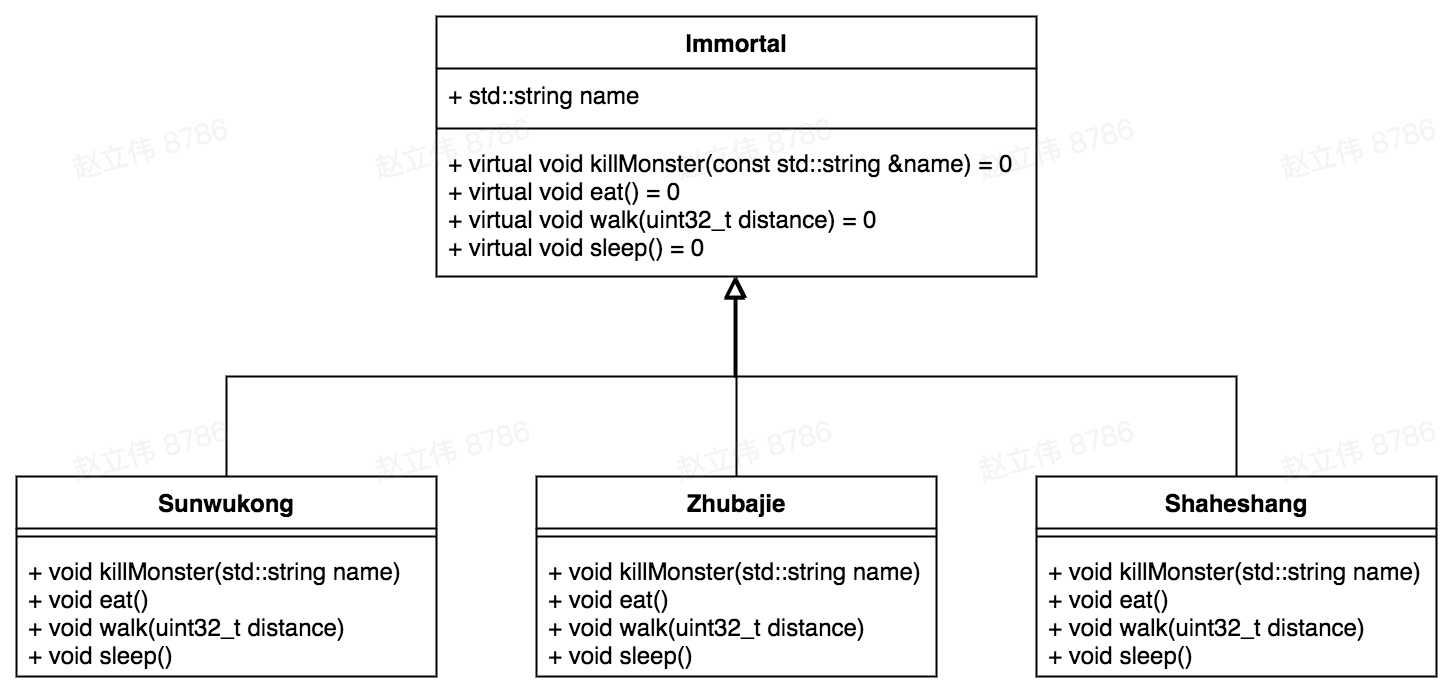
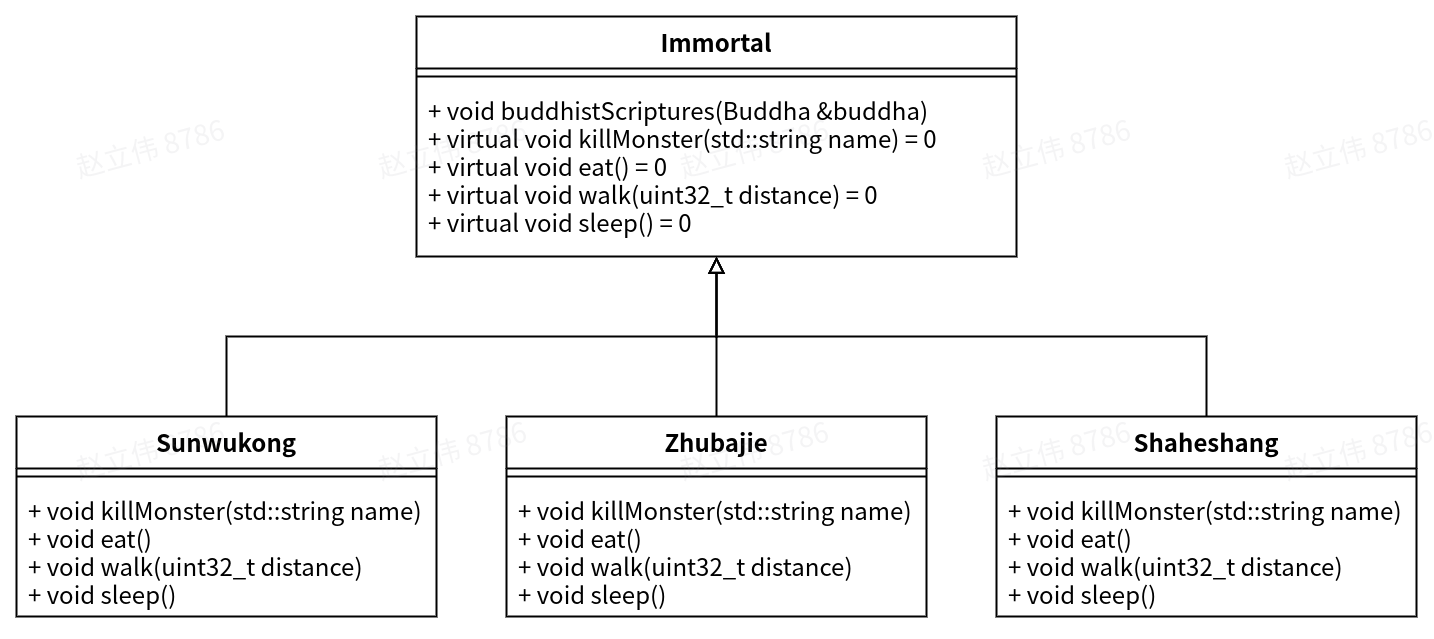
update

Changed region(s): [[0.0, 0.0, 1.0, 0.9812]]

diff --git a/_posts/2022-01-04-code-refactor.md b/_posts/2022-01-04-code-refactor.md
@@ -1835,7 +1835,7 @@ private:
 
 Visitor模式是一个相对比较难理解的设计模式，本人阅读了很多讲解Visitor的文章，很多都将重点聚焦在将数据数据持有者和数据访问者分离，这会令很多人很疑惑：为什么要把本来在元素内部实现的、关于元素自身行为的逻辑抽取到访问者上。下面我们来逐层分析，以理解Visitor模式的核心思想。
 
-还是以西天取经为例，最开始取经队伍中只有唐僧和几个其他和尚，这几块货也就是会念念经，所以如来佛祖也没指望他们取经路上干点啥，也就是念经、睡觉、吃饭、赶路。需要说明的是，这里假设唐僧念经和普通和尚不一样，要做一些特殊的操作，因此需要将唐僧实现为一个独立的类。其简单类图如下：
+还是以西天取经为例，最开始取经队伍中只有唐僧和几个其他和尚，这几块货也就是会念念经，所以如来佛祖也没指望他们取经路上干点啥，也就是念念经。需要说明的是，这里假设唐僧念经和普通和尚不一样，要做一些特殊的操作，因此需要将唐僧实现为一个独立的类。其简单类图如下：
 
 ![](../images/visitor-graph-1.jpg)
 
@@ -1847,6 +1847,14 @@ public:
     Monk(const std::string &name) : name(name) {}
     virtual ~Monk() = 0;
 
+    void buddhistScriptures(Buddha &buddha) {
+        this->eat();
+        this->walk(100);
+        buddha.visit(this);
+        this->sleep();
+    }
+
+private:
     virtual void chant(uint32_t hour) = 0;
     virtual void eat() = 0;
     virtual void sleep() = 0;
@@ -1854,6 +1862,8 @@ public:
 
 protected:
     std::string name;
+
+    friend class Buddha;
 };
 
 Monk::~Monk() = default;
@@ -1862,6 +1872,7 @@ class Tangseng : public Monk {
 public:
     Tangseng() : Monk("唐僧") {}
 
+private:
     void chant(uint32_t hour) {
         // TBD: do some special action
         std::cout << this->name << "念经" << hour << "小时" << std::endl;
@@ -1884,6 +1895,7 @@ class CommonMonk : public Monk {
 public:
     CommonMonk(const std::string &name) : Monk(name) {}
 
+private:
     void chant(uint32_t hour) {
         // TBD: do some special action
         std::cout << this->name << "念经" << hour << "小时" << std::endl;
@@ -1906,11 +1918,8 @@ class Buddha {
 public:
     Buddha() = default;
 
-    void buddhistScriptures(Monk* monk) {
-        monk->eat();
-        monk->walk(100);
+    void visit(Monk* monk) {
         monk->chant(2);
-        monk->sleep();
     }
 };
 ```
@@ -1926,7 +1935,7 @@ int main() {
 
     Buddha buddha;
     for (const auto &monk : monks) {
-        buddha.buddhistScriptures(monk.get());
+        monk->buddhistScriptures(buddha);
     }
 }
 ```
@@ -1950,11 +1959,11 @@ int main() {
 
 ***这里使用了一次动态分派（即多态）***。
 
-后来随着剧情推进，孙悟空、猪八戒和沙僧加入了队伍。然而他们的主要职责并不是念经，而是降妖除魔。如下所示：
+后来随着剧情推进，孙悟空、猪八戒和沙僧加入了队伍。然而如来佛祖希望他们取经路上的职责是降妖除魔，而不是念经。如下所示：
 
 ![](../images/visitor-graph-2.jpg)
 
-因此，通过上面的一次动态分派就很难解决问题了。这里有两种解决办法：
+由于不同的角色需要执行不同的操作，因此通过上面的一次动态分派就很难解决问题了。这里有两种解决办法：
 
 - 将killMonster和chant函数抽象成action，如下所示：
 
@@ -1975,15 +1984,9 @@ public:
 
     void buddhistScriptures(Person* person) {
         if (person->type() == "Monk") {
-            person->eat();
-            person->walk(100);
             person->chant(2);
-            person->sleep();
         } else if (person->type() == "Immortal") {
-            person->eat();
-            person->walk(100);
             person->killMonster("白骨精");
-            person->sleep();
         }
     }
 };
@@ -1999,24 +2002,20 @@ public:
     Buddha() = default;
 
     void buddhistScriptures(Monk* monk) {
-        monk->eat();
-        monk->walk(100);
         monk->chant(2);
-        monk->sleep();
     }
 
     void buddhistScriptures(Immortal* immortal) {
-        immortal->eat();
-        immortal->walk(100);
         immortal->killMonster("白骨精");
-        immortal->sleep();
     }
 };
 ```
 
 这里***通过函数重载引入了一次静态分派***，当调用buddhistScriptures函数时，会根据具体是Monk类型还是Immortal类型，来调用不同的重载函数。
 
-不过，这里还有一个问题：如来佛祖希望取经团队按照如上实现去做，而取经路上的女儿国国王却非如此，她希望唐僧留下来不要去取经了，也别当和尚念经了，直接留女儿国当国王。而孙悟空几个徒弟去代替唐僧取经。因此，***这里需要引入一次动态分派（多态）***，以抽象如来佛祖和女儿国国王，具体的实现方式是实现一个如来佛祖和女儿国国王的公共父类Visitor。看到这里大家应该也就明白了，这里的如来佛祖和女儿国国王就是访问者模式中的访问者。
+不过，这里还有一个问题：如来佛祖希望取经团队按照如上实现去做，而李世民却并非如此。他要求唐僧和其他普通和尚能够收集沿途的地理人文信息，以便大唐治理国家需要。要求孙悟空猪八戒等沿途大力宣扬大唐武力充沛，以防止他国来犯。
+
+。因此，***这里需要引入一次动态分派（多态）***，以抽象如来佛祖和李世民，具体的实现方式是实现一个如来佛祖和李世民的公共父类Visitor。看到这里大家应该也就明白了，这里的如来佛祖和李世民就是访问者模式中的访问者。
 
 ```
 class Visitor {
@@ -2032,42 +2031,34 @@ class Buddha : public Visitor {
 public:
     Buddha() = default;
 
-    void buddhistScriptures(Monk* monk) {
-        monk->eat();
-        monk->walk(100);
+    void visit(Monk* monk) {
         monk->chant(2);
-        monk->sleep();
     }
 
-    void buddhistScriptures(Immortal* immortal) {
-        immortal->eat();
-        immortal->walk(100);
+    void visit(Immortal* immortal) {
         immortal->killMonster("白骨精");
-        immortal->sleep();
     }
 };
 
-class Queen : public Visitor {
+class Lishimin : public Visitor {
 public:
     Queen () = default;
 
-    void buddhistScriptures(Monk* monk) {
-        // 不取经了，也不念经了，就在女儿国吃了睡、睡了吃 :)
-        monk->eat();
-        monk->sleep();
+    void visit(Monk* monk) {
+	monk->collectInfo();
     }
 
-    void buddhistScriptures(Immortal* immortal) {
-        // 其他人该干啥干啥
-        immortal->eat();
-        immortal->walk(100);
-        immortal->killMonster("白骨精");
-        immortal->sleep();
+    void visit(Immortal* immortal) {
+	immortal->showStrength();
     }
 };
 ```
 
-总结来看，***Visitor模式就是通过两次动态分派+一次静态分派，来实现代码的解耦。***
+其最终类图如下:
+
+![](../images/visitor-graph-4.jpg)
+
+总结来看，***Visitor模式就是通过两次动态分派+一次静态分派，来实现代码的解耦。*** 当然，Visitor模式也是有缺点的，最显著的在于，当我们增加GoWestPerson的顶层子类时，会导致侵入式修改Visitor的实现。
 
 另外，这里还有一篇对Visitor讲的比较好的[文章](https://www.zhihu.com/question/37236639/answer/218204649)
 
